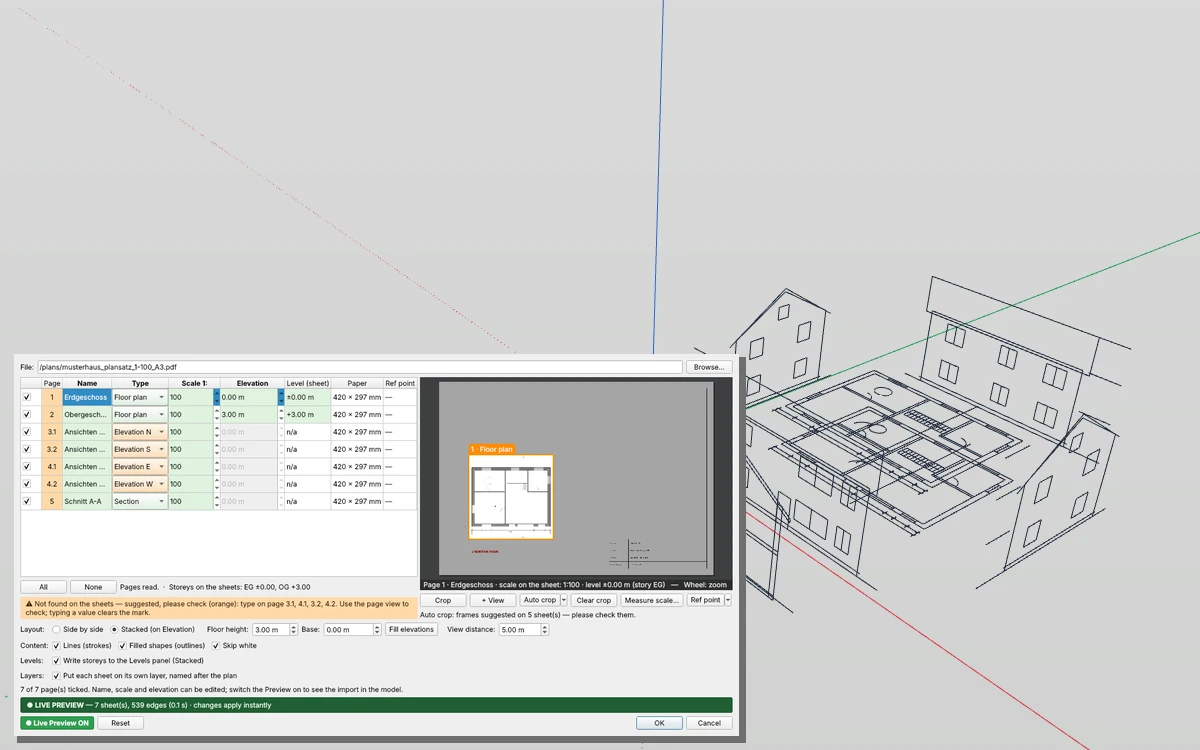
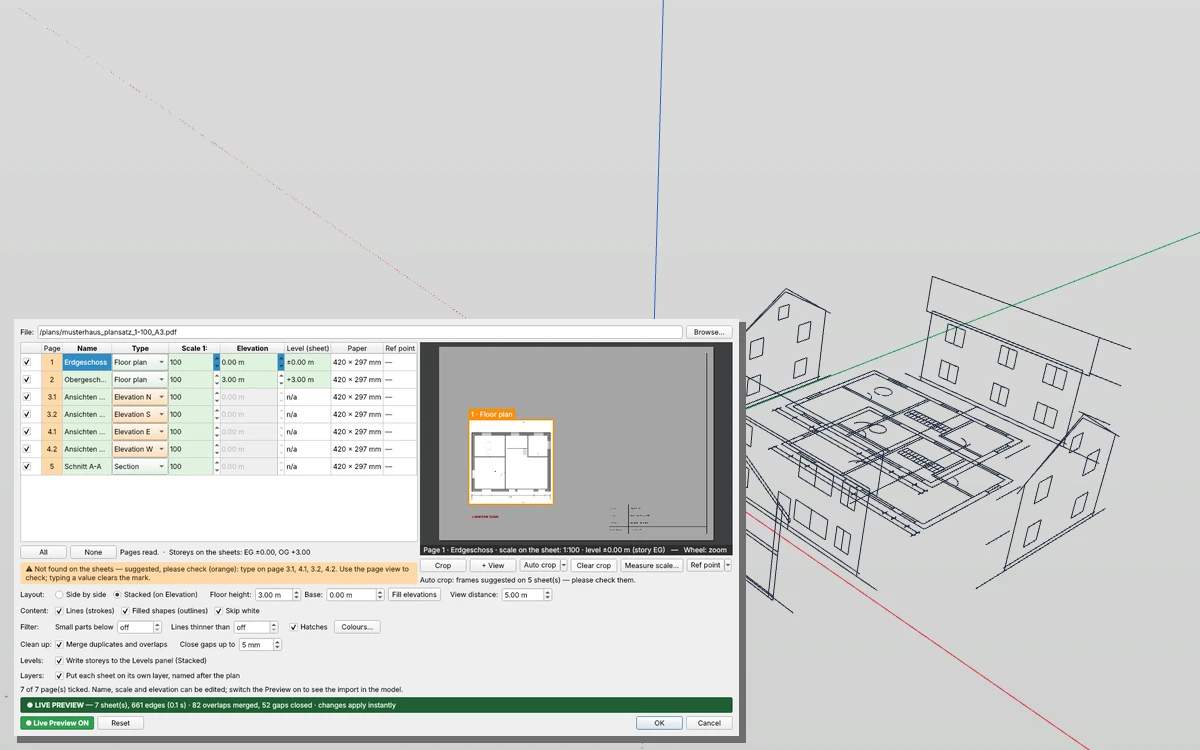
Docs and screenshot for 1.1

Changed region(s): [[0.0, 0.3987, 0.6475, 0.9507], [0.2775, 0.644, 0.3392, 0.6747]]

diff --git a/LIESMICH.md b/LIESMICH.md
@@ -5,7 +5,7 @@
 Importiert CAD-Pläne aus einem **Vektor-PDF** (Plot aus ArchiCAD, Revit, AutoCAD, Vectorworks …, kein Scan) als saubere Kanten im richtigen Maßstab — ein Blatt oder einen ganzen Plansatz. Grundrisse werden auf ihre Geschosshöhen gestapelt, Ansichten und Schnitte stehen hochkant drumherum, die Geschosse landen im Levels-Reiter und jedes Blatt auf einer eigenen Ebene.
 
 ## Installation
-`plan_import_tool_1.0.zip` aus dem [neuesten Release](../../releases/latest) laden und in den Plugin-Ordner entpacken (Extensions ▸ Open plugins folder; unter Windows `%APPDATA%\ingetrazo\plugins`). Der Ordner **`plan_import_tool`** muss dort als Unterordner liegen: `plugins\plan_import_tool\__init__.py`. IngeTrazo neu starten → **Extensions ▸ Plan Import…**. Ab IngeTrazo 0.5.7.
+`plan_import_tool_1.1.zip` aus dem [neuesten Release](../../releases/latest) laden und in den Plugin-Ordner entpacken (Extensions ▸ Open plugins folder; unter Windows `%APPDATA%\ingetrazo\plugins`). Der Ordner **`plan_import_tool`** muss dort als Unterordner liegen: `plugins\plan_import_tool\__init__.py`. IngeTrazo neu starten → **Extensions ▸ Plan Import…** oder die Werkzeugleiste **Plan Import**. Ab IngeTrazo 0.5.7.
 
 ## Der Dialog
 Mit **Browse…** ein PDF wählen. Jede Seite bekommt eine Zeile; was sich vom Blatt lesen lässt, wird selbst ausgefüllt — **grün** = vom Blatt gelesen, **orange** = Vorschlag (bitte prüfen), **blau** = von dir gemessen/gesetzt. Eintippen löscht die Markierung.
@@ -24,6 +24,8 @@ Daneben das gewählte Blatt als Bild (Mausrad: Zoom · Ziehen: verschieben · Do
 
 ## Funktionen
 - **Content**: **Lines (strokes)**, **Filled shapes (outlines)** (als graue Fläche gezeichnete Wände), **Skip white** (Papiermasken). Bögen und Kreise kommen als Kurven; Texte, Bilder und Verläufe werden übersprungen.
+- **Filter**: **Small parts below** N mm auf dem Papier (in Kurven gewandelte Schrift, Maßstriche, Punkte), **Lines thinner than** N mm (Haarlinien), **Hatches** (Schraffuren: gerade Linien in regelmäßigen parallelen Reihen, wie CAD-Programme sie drucken; Treppenstufen liegen weiter auseinander und bleiben), **Colours…** (eine Farbe abhaken = alles in dieser Farbe weglassen).
+- **Clean up**: **Merge duplicates and overlaps** (übereinanderliegende Linien werden eine, jeder Endpunkt bleibt ein Punkt), **Close gaps up to** N mm real (lose Linienenden werden an den nächsten Punkt oder die nächste Linie angeschlossen).
 - **Layout**: **Side by side** (alle Blätter flach nebeneinander) oder **Stacked (on Elevation)**: Grundrisse übereinander auf ihrer **Elevation**, Lageplan flach, Ansichten und Schnitte **hochkant** um das Gebäude im Abstand **View distance**, nach außen gerichtet, ±0,00 auf z = 0.
 - **Floor height** / **Base** / **Fill elevations**: Geschosshöhen aus den gelesenen Höhen, sonst Base + n × Floor height.
 - **Measure scale…**: beide Enden einer bekannten Strecke anklicken (fängt an Linienenden), echte Länge eintippen — der Maßstab wird berechnet und auf einen üblichen gerundet.

diff --git a/README.md b/README.md
@@ -5,7 +5,7 @@
 Imports CAD plans from a **vector PDF** (a plot from ArchiCAD, Revit, AutoCAD, Vectorworks …, not a scan) as clean edges at their real scale — one sheet or a whole plan set. Floor plans are stacked on their storey heights, elevations and sections stand upright around them, the storeys go into the Levels panel and every sheet onto a layer of its own.
 
 ## Install
-Download `plan_import_tool_1.0.zip` from the [latest release](../../releases/latest) and unpack it into the plugins folder (Extensions ▸ Open plugins folder; on Windows `%APPDATA%\ingetrazo\plugins`). The folder **`plan_import_tool`** must sit there as a sub-folder: `plugins\plan_import_tool\__init__.py`. Restart IngeTrazo → **Extensions ▸ Plan Import…**. Needs IngeTrazo ≥ 0.5.7.
+Download `plan_import_tool_1.1.zip` from the [latest release](../../releases/latest) and unpack it into the plugins folder (Extensions ▸ Open plugins folder; on Windows `%APPDATA%\ingetrazo\plugins`). The folder **`plan_import_tool`** must sit there as a sub-folder: `plugins\plan_import_tool\__init__.py`. Restart IngeTrazo → **Extensions ▸ Plan Import…** or the **Plan Import** toolbar. Needs IngeTrazo ≥ 0.5.7.
 
 ## The dialog
 **Browse…** a PDF. Every page gets a row; what can be read from the sheet is filled in by itself — **green** = read from the sheet, **orange** = suggested (please check), **blue** = measured/set by you. Typing a value clears the mark.
@@ -24,6 +24,8 @@ Beside the list: the selected sheet as a picture (wheel: zoom · drag: pan · do
 
 ## Features
 - **Content**: **Lines (strokes)**, **Filled shapes (outlines)** (walls drawn as grey fills), **Skip white** (paper masks). Arcs and circles come in as curves; texts, images and shadings are skipped.
+- **Filter**: **Small parts below** N mm on paper (letters turned into curves, ticks, dots), **Lines thinner than** N mm (hairlines), **Hatches** (straight lines in regular parallel rows, as CAD programs print a hatch; stair treads are wider apart and stay), **Colours…** (untick a colour to leave out everything drawn in it).
+- **Clean up**: **Merge duplicates and overlaps** (lines lying on each other become one, every end point stays a vertex), **Close gaps up to** N mm real (loose line ends join the nearest point or line).
 - **Layout**: **Side by side** (all sheets flat in a row) or **Stacked (on Elevation)**: floor plans one above the other on their **Elevation**, the site plan flat, elevations and sections **upright** around the building at **View distance**, facing outwards, their ±0,00 line at z = 0.
 - **Floor height** / **Base** / **Fill elevations**: storey heights from the levels read on the sheets, else Base + n × Floor height.
 - **Measure scale…**: click both ends of a known distance on the sheet (snaps to line ends), type its real length — the scale is computed and rounded to a usual one.
